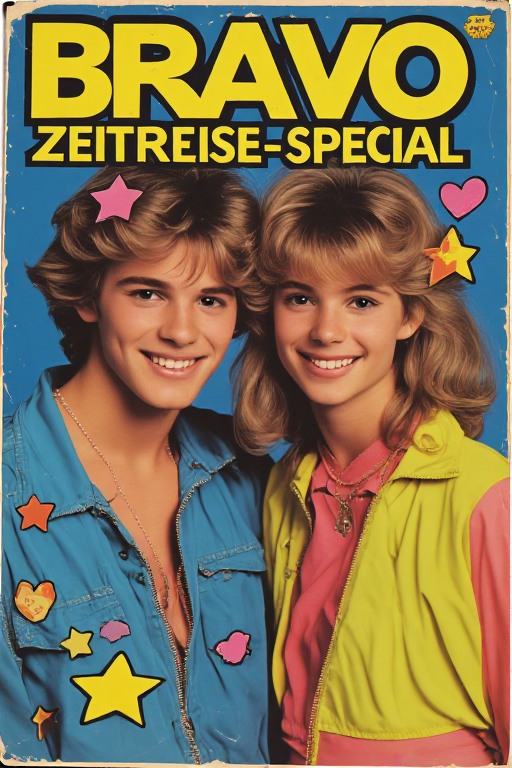
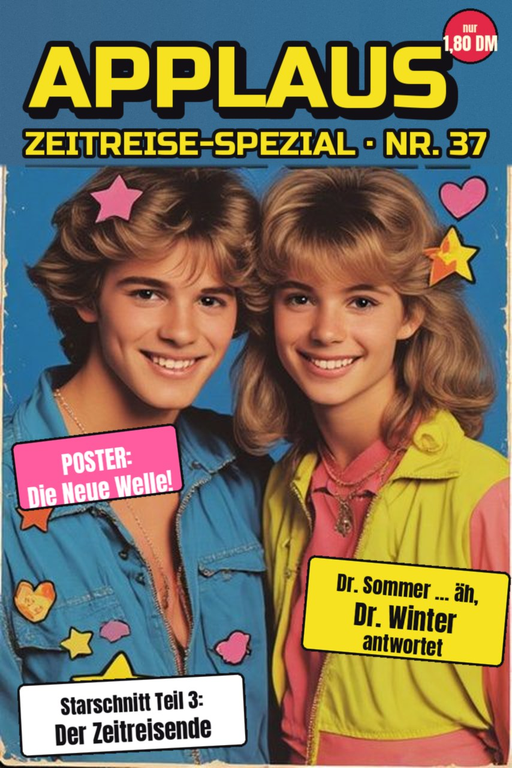
Kinderzimmer 1984 Schreibtisch: BRAVO-Titel ersetzt durch Parodie APPLAUS (gleiche Farben, eigene Schrift, erfundene Titelzeilen; auch posters_web/posters_fixed), neues Satireheft IRRE (eigenes Maskottchen, Die Geisterjäger-Pleite, 2,50 DM, nehmbar), Zeitflakes-Packung rundum bedruckt (Rückseite Lab

diff --git a/start.html b/start.html
@@ -11,8 +11,8 @@ a.main{border-color:#ff9a3c;background:#2a1418}
 .ft{margin:30px 0 40px;color:#8d7aa3;font-size:20px}
 </style></head><body>
 <h1>REWIND</h1><div class="sub">Zeitschleife · Testzentrale</div>
-<a class="b main" href="v3/alpha.html?v=1022z3">🆕 🎬 ALPHA · Rewind komplett<small>22.10. NEU: das Nokio muss man erst finden – es liegt im Kinderzimmer 1984 auf dem Schreibtisch, halb unter dem Comic (nehmen = ins Inventar + SMS) · vorher spricht in den Backrooms der Erzähler · Kirmes/Basketball zeigen Zeitbonus wieder auf der Tafel · 22.10. NEU: keine Tipps/Steuerungs-Hilfe mehr automatisch (nur noch per Menü ☰ › Steuerung) · Startknöpfe am Handy nie mehr verdeckt · Mara ruft auf dem Nokio an, wo sie nicht selbst im Raum ist (klingelt + vibriert, Handy nehmen = abheben) · 22.10. NEU: 12 Zwischenszenen-Filme beim Weg durch die Türen (vor Kinderzimmer, Mall, Hallenbad, Maisfeld, Ostberlin, Stadt 2041, Apartment, Hinterhof, Kirmes, Simulator, Ende + Zurückspulen) · überspringen: antippen / B / Esc / Trigger · in VR auf großer gebogener Leinwand · 22.10.: neues Titelbild (Backrooms-Gang als Film-Loop, VHS-Look) · Intro → Backrooms → alle 13 Räume, jetzt mit Wohnung direkt nach dem Kinderzimmer (Kinderzimmer-Tür → Küche, Büro-Ausgang → Mall) · Warteraum als Abstecher hinter der kleinen Tür in den Backrooms (zurück durch NO EXIT) · Handy im Inventar: Quest Y = Inventar, Trigger/Griff = in die Hand, B = zurück · PC: I / Esc · VR: Laufen + Snap-Drehung folgen jetzt dem Kopf (nichts mehr „gespiegelt“)</small></a>
-<a class="b" href="v3/alpha.html?touch=1&amp;v=1022z3">🆕 📱 Handy-Version (ohne VR)<small>22.10. NEU: das Nokio muss man erst finden – es liegt im Kinderzimmer 1984 auf dem Schreibtisch, halb unter dem Comic (nehmen = ins Inventar + SMS) · vorher spricht in den Backrooms der Erzähler · Kirmes/Basketball zeigen Zeitbonus wieder auf der Tafel · 22.10. NEU: keine Tipps/Steuerungs-Hilfe mehr automatisch (nur noch per Menü ☰ › Steuerung) · Startknöpfe am Handy nie mehr verdeckt · Mara ruft auf dem Nokio an, wo sie nicht selbst im Raum ist (klingelt + vibriert, Handy nehmen = abheben) · 22.10. NEU: 12 Zwischenszenen-Filme beim Weg durch die Türen (vor Kinderzimmer, Mall, Hallenbad, Maisfeld, Ostberlin, Stadt 2041, Apartment, Hinterhof, Kirmes, Simulator, Ende + Zurückspulen) · überspringen: antippen / B / Esc / Trigger · in VR auf großer gebogener Leinwand · 22.10.: neues Titelbild · Rewind auf dem Handy, quer halten · wischen = umsehen · Boden antippen = hingehen · Tür/Gegenstand antippen = hingehen + benutzen · doppelt tippen = umdrehen · B = zurück · ☰ Menü › Optionen › Steuerung · Automaten: Steuerkreuz + A · Android-App: <u>v3/app/rewind_test.apk</u></small></a>
+<a class="b main" href="v3/alpha.html?v=1022z4">🆕 🎬 ALPHA · Rewind komplett<small>22.10. NEU: Kinderzimmer-Schreibtisch: Teenie-Heft APPLAUS (statt echtem Titel), Satireheft IRRE zum Mitnehmen, Zeitflakes-Packung rundum bedruckt · 22.10. NEU: das Nokio muss man erst finden – es liegt im Kinderzimmer 1984 auf dem Schreibtisch, halb unter dem Comic (nehmen = ins Inventar + SMS) · vorher spricht in den Backrooms der Erzähler · Kirmes/Basketball zeigen Zeitbonus wieder auf der Tafel · 22.10. NEU: keine Tipps/Steuerungs-Hilfe mehr automatisch (nur noch per Menü ☰ › Steuerung) · Startknöpfe am Handy nie mehr verdeckt · Mara ruft auf dem Nokio an, wo sie nicht selbst im Raum ist (klingelt + vibriert, Handy nehmen = abheben) · 22.10. NEU: 12 Zwischenszenen-Filme beim Weg durch die Türen (vor Kinderzimmer, Mall, Hallenbad, Maisfeld, Ostberlin, Stadt 2041, Apartment, Hinterhof, Kirmes, Simulator, Ende + Zurückspulen) · überspringen: antippen / B / Esc / Trigger · in VR auf großer gebogener Leinwand · 22.10.: neues Titelbild (Backrooms-Gang als Film-Loop, VHS-Look) · Intro → Backrooms → alle 13 Räume, jetzt mit Wohnung direkt nach dem Kinderzimmer (Kinderzimmer-Tür → Küche, Büro-Ausgang → Mall) · Warteraum als Abstecher hinter der kleinen Tür in den Backrooms (zurück durch NO EXIT) · Handy im Inventar: Quest Y = Inventar, Trigger/Griff = in die Hand, B = zurück · PC: I / Esc · VR: Laufen + Snap-Drehung folgen jetzt dem Kopf (nichts mehr „gespiegelt“)</small></a>
+<a class="b" href="v3/alpha.html?touch=1&amp;v=1022z4">🆕 📱 Handy-Version (ohne VR)<small>22.10. NEU: Kinderzimmer-Schreibtisch: Teenie-Heft APPLAUS (statt echtem Titel), Satireheft IRRE zum Mitnehmen, Zeitflakes-Packung rundum bedruckt · 22.10. NEU: das Nokio muss man erst finden – es liegt im Kinderzimmer 1984 auf dem Schreibtisch, halb unter dem Comic (nehmen = ins Inventar + SMS) · vorher spricht in den Backrooms der Erzähler · Kirmes/Basketball zeigen Zeitbonus wieder auf der Tafel · 22.10. NEU: keine Tipps/Steuerungs-Hilfe mehr automatisch (nur noch per Menü ☰ › Steuerung) · Startknöpfe am Handy nie mehr verdeckt · Mara ruft auf dem Nokio an, wo sie nicht selbst im Raum ist (klingelt + vibriert, Handy nehmen = abheben) · 22.10. NEU: 12 Zwischenszenen-Filme beim Weg durch die Türen (vor Kinderzimmer, Mall, Hallenbad, Maisfeld, Ostberlin, Stadt 2041, Apartment, Hinterhof, Kirmes, Simulator, Ende + Zurückspulen) · überspringen: antippen / B / Esc / Trigger · in VR auf großer gebogener Leinwand · 22.10.: neues Titelbild · Rewind auf dem Handy, quer halten · wischen = umsehen · Boden antippen = hingehen · Tür/Gegenstand antippen = hingehen + benutzen · doppelt tippen = umdrehen · B = zurück · ☰ Menü › Optionen › Steuerung · Automaten: Steuerkreuz + A · Android-App: <u>v3/app/rewind_test.apk</u></small></a>
 <a class="b" href="v3/">▶ V3 – Spiel<small>Neuester Stand (VR zuerst)</small></a>
 <a class="b" href="v3/test/era1984.html?v=1021b">📺 1984 · Kinderzimmer<small>21.10.: weniger Ruckeln, Springmaus-Plüsch</small></a>
 <a class="b" href="v3/test/era_wohnung.html?v=1021l">🆕 🏠 Wohnung · Schlafzimmer, Küche, Wohnzimmer, Büro<small>21.10.: FIX Türen: offene Tür jetzt tiefschwarz (kein beiges Bild mehr), Durchgehen klappt an allen Türen, kein Zurückspringen beim Umdrehen · Molder-Ausweis liegt jetzt im Lampenlicht, Lederrücken beim Drehen sichtbar · VHS-Regal: „Der große Fisch kehrt zurück“, „Die Knuddelmonster“ · zwei FBI-Ausweise auf dem Büro-Schreibtisch – anklicken oder greifen = untersuchen, Molder klappt auf, Stick/Hand dreht, B/Y oder Trigger legt zurück · Wohnzimmer neu (Eiche-Schrankwand, Cord-Sofa, Röhren-TV, Fensterblick Westberlin, gebackenes Licht) · Akte-X-Büro neu (Röhren-PC, Aktenschränke, Tür, gebackenes Licht) · RE-Türen · Wählscheibentelefon (Mara)</small></a>

diff --git a/v3/test/era1984.html b/v3/test/era1984.html
@@ -32,16 +32,19 @@ S.addEventListener('loaded',()=>{
  const tex=(u,cb)=>TL.load(u,t=>{t.colorSpace=T.SRGBColorSpace;t.anisotropy=8;cb&&cb(t);});
  const std=o=>new T.MeshStandardMaterial(o);
  const B84=window.__B84=build84(S);
- // ---------- grabbables: VHS (c1-c3), book (c4), cereal (c5) ----------
+ // ---------- grabbables: VHS (c1-c2), Teenie-Heft APPLAUS (c3), book (c4), cereal (c5), Satireheft IRRE ----------
  const items=[];
- function item(n,w,h,d,x,y,z,ry,spine,page,flat){ const fm=std({color:0xffffff,roughness:0.6}); tex('../assets/era1984/'+n+'.jpg?v=2',t=>{fm.map=t;fm.needsUpdate=true;});
-  const sm=std({color:spine,roughness:0.7}); const pm=page?std({color:page,roughness:0.9}):sm; const mats=[pm,sm,pm,pm,fm,sm];
+ function item(n,w,h,d,x,y,z,ry,spine,page,flat,faces){ const fm=std({color:0xffffff,roughness:0.6}); tex('../assets/era1984/'+n+'.jpg?v=3',t=>{fm.map=t;fm.needsUpdate=true;});
+  const sm=std({color:spine,roughness:0.7}); const pm=page?std({color:page,roughness:0.9}):sm;
+  const ft=k=>{ const m=std({color:0xffffff,roughness:0.75}); tex('../assets/era1984/'+k+'.jpg?v=3',t=>{m.map=t;m.needsUpdate=true;}); return m; }; // eigene Textur je Seite (z. B. Müslipackung rundum bedruckt)
+  const mats=faces?[ft(faces.px),ft(faces.nx),ft(faces.py),ft(faces.ny),fm,ft(faces.nz)]:[pm,sm,pm,pm,fm,sm];
   const el=document.createElement('a-entity'); el.classList.add('clickable'); S.appendChild(el);
   el.addEventListener('loaded',()=>{ const me=new T.Mesh(new T.BoxGeometry(w,h,d),mats); el.setObject3D('mesh',me); if(flat){ el.object3D.position.set(x,y+d/2,z); el.object3D.rotation.set(-Math.PI/2,0,0); el.object3D.rotateOnWorldAxis(new T.Vector3(0,1,0),ry); } else { el.object3D.position.set(x,y+h/2,z); el.object3D.rotation.y=ry; } });
   const it={el,n,h:flat?d:h,flat,home:new T.Vector3(x,y+h/2,z),vy:0,held:null}; items.push(it);
   el.addEventListener('click',e=>{ e.stopPropagation&&e.stopPropagation(); grab(it,e.detail&&e.detail.cursorEl); }); return it; }
  item('c1',0.105,0.19,0.025,-0.38,0,-1.82,0.25,0x111111); item('c2',0.15,0.22,0.035,-0.25,0,-1.8,0.1,0x3a1d12,0xcbbf9e); { const c3=item('c3',0.19,0.27,0.006,1.62,0.76,-0.72,0.2,0xd8d0c0,0xd8d0c0,true); /* Comic liegt halb auf dem Nokio (Fundort) */ c3.el.addEventListener('loaded',()=>{ const o=c3.el.object3D; o.position.y+=0.016; o.rotateOnWorldAxis(new T.Vector3(Math.cos(0.2),0,-Math.sin(0.2)),-0.08); /* Kante liegt auf dem Handy, andere Kante auf dem Tisch */ }); }
- item('c4',0.15,0.22,0.035,1.85,1.13,-1.8,-0.1,0x5a2a1a); item('c5',0.19,0.28,0.07,1.7,0.76,-0.05,-0.4,0xd8c070);
+ item('c4',0.15,0.22,0.035,1.85,1.13,-1.8,-0.1,0x5a2a1a); item('c5',0.19,0.28,0.07,1.7,0.76,-0.05,-0.4,0xd8c070,0,false,{px:'c5_side',nx:'c5_side',py:'c5_top',ny:'c5_top',nz:'c5_back'}); // Zeitflakes rundum bedruckt (vorher einfarbige Seiten)
+ item('irre',0.2,0.267,0.004,1.8,0.76,-0.32,-0.35,0xe8e0cc,0xe8e0cc,true); // Satireheft IRRE (Parodie), achtlos auf den Tisch geworfen
  let held=null, grabs=0;
  function grab(it,src){ if(held&&held!==it) drop(); if(held===it){ drop(); return; }
   const hand=(src&&src.id&&src.id!=='')?src:null; const par=(hand&&(hand.id==='hl'||hand.id==='hr'))?hand.object3D:document.getElementById('cam').object3D;
